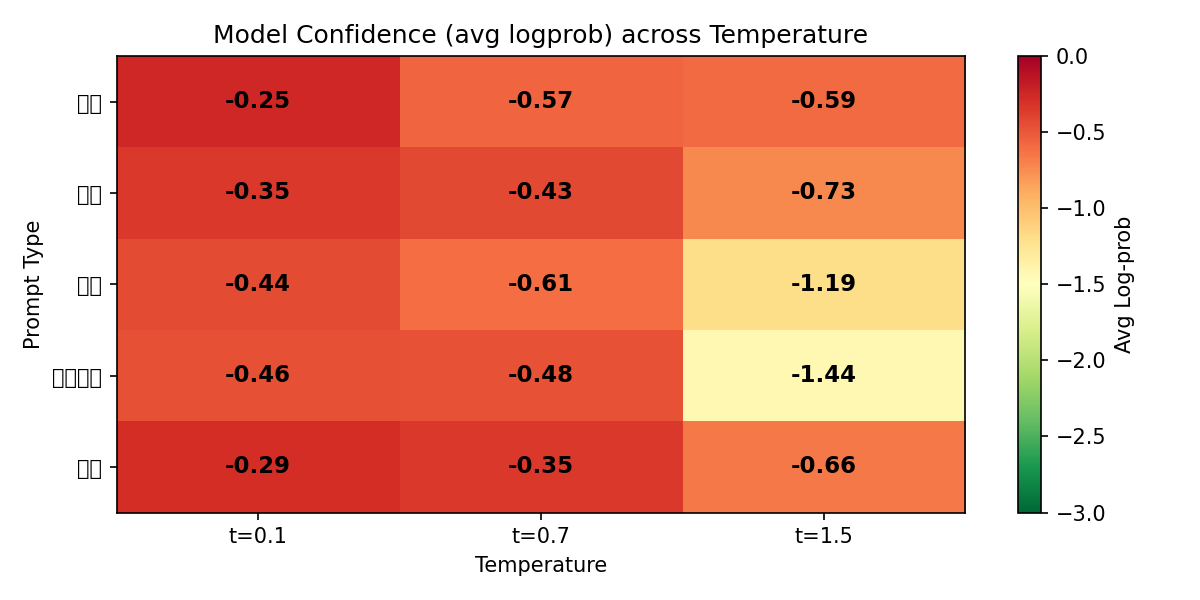
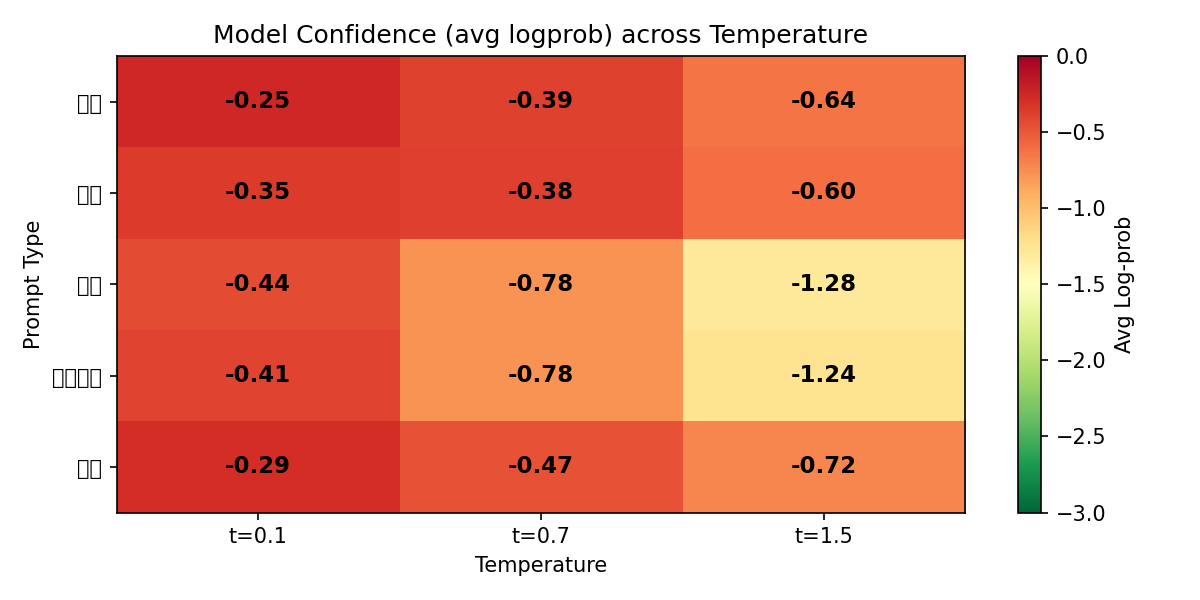
feat: add experiment for prefix caching performance evaluation

diff --git a/experiment_F_prefix_caching.py b/experiment_F_prefix_caching.py
@@ -1,0 +1,79 @@
+import requests
+import time
+
+API_URL = "http://localhost:8080/completion"
+
+# 构造一个长公共前缀（约 2048 tokens，每词约1 token）
+COMMON_PREFIX = ("The analysis of the bridge structure requires careful consideration of "
+                 "load distribution, material fatigue, environmental stress factors, "
+                 "structural integrity over time, and the impact of dynamic forces including "
+                 "wind, traffic, and seismic activity. The inspection protocol mandates "
+                 "a comprehensive evaluation of all primary and secondary structural elements "
+                 "including piers, girders, deck slabs, abutments, bearings, expansion joints, "
+                 "and cable systems. Each component must be assessed against established "
+                 "safety standards and historical performance data. The engineering report "
+                 "shall document all findings with quantitative measurements, photographic "
+                 "evidence, and recommended maintenance schedules. " * 5)
+
+UNIQUE_SUFFIX_A = "Question A: What is the primary material concern for pier number three?"
+UNIQUE_SUFFIX_B = "Question B: What is the recommended inspection frequency for the deck slab?"
+
+def measure_ttft(prompt, label):
+    payload = {
+        "prompt": prompt,
+        "n_predict": 1,
+        "temperature": 0,
+        "stream": False,
+    }
+    start = time.time()
+    resp = requests.post(API_URL, json=payload, timeout=120)
+    ttft = time.time() - start
+    timings = resp.json().get("timings", {})
+    prompt_ms = timings.get("prompt_ms", 0)
+    cached = resp.json().get("tokens_cached", 0)
+    return ttft, prompt_ms, cached
+
+def run_experiment():
+    print("=" * 60)
+    print("  Prefix Caching 效果对比实验")
+    print("=" * 60)
+    print(f"公共前缀长度: 约 {len(COMMON_PREFIX.split())} 个 tokens")
+    print()
+
+    # --- 第1步：冷启动请求（无缓存） ---
+    prompt1 = COMMON_PREFIX + UNIQUE_SUFFIX_A
+    ttft1, pms1, cached1 = measure_ttft(prompt1, "冷启动")
+    print(f"【第1步】冷启动请求（不同前缀）")
+    print(f"  TTFT: {ttft1*1000:.0f}ms (prefill: {pms1:.0f}ms, cached: {cached1})")
+    print()
+
+    # --- 第2步：相同前缀请求（命中缓存） ---
+    prompt2 = COMMON_PREFIX + UNIQUE_SUFFIX_B
+    ttft2, pms2, cached2 = measure_ttft(prompt2, "缓存命中")
+    print(f"【第2步】相同前缀请求（命中 KV Cache）")
+    print(f"  TTFT: {ttft2*1000:.0f}ms (prefill: {pms2:.0f}ms, cached: {cached2})")
+    print()
+
+    # --- 第3步：再次不同前缀（验证不是偶然） ---
+    prompt3 = "Short random context: " + "X" * 2000 + " Question C?"
+    ttft3, pms3, cached3 = measure_ttft(prompt3, "不相关")
+    print(f"【第3步】不同前缀请求（不缓存，验证冷启动一致性）")
+    print(f"  TTFT: {ttft3*1000:.0f}ms (prefill: {pms3:.0f}ms, cached: {cached3})")
+    print()
+
+    # --- 汇总 ---
+    speedup = ttft3 / ttft2 if ttft2 > 0 else 0
+    print("=" * 60)
+    print("  结论")
+    print("=" * 60)
+    print(f"  无缓存（冷启动）: TTFT {ttft3*1000:.0f}ms（完整 prefill {pms3:.0f}ms）")
+    print(f"  有缓存（命中）  : TTFT {ttft2*1000:.0f}ms（仅处理增量 {pms2:.0f}ms，缓存 {cached2} tokens）")
+    print(f"  鸿沟: 命中缓存后 TTFT 降低 {speedup:.1f}x")
+    print()
+    print("  教学意义: 在真实业务中（如多轮对话、批量审计），")
+    print("  只要请求共享公共前缀（系统提示词/长文档），")
+    print("  Prefix Caching 就能将 TTFT 从秒级降到毫秒级。")
+
+
+if __name__ == "__main__":
+    run_experiment()